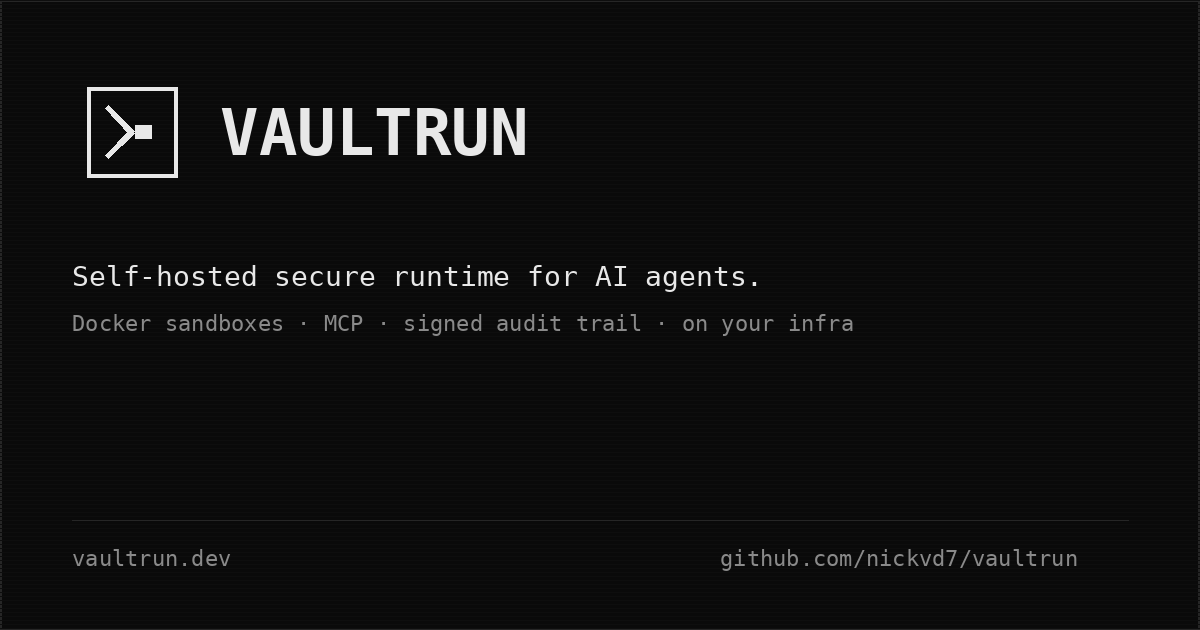
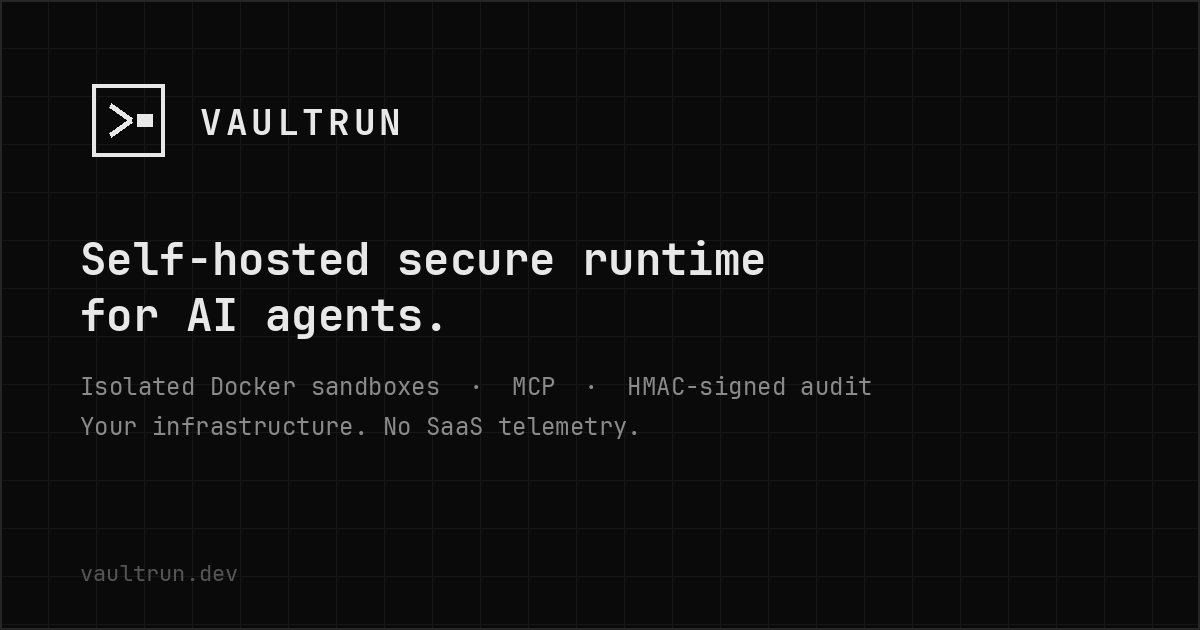
docs: LinkedIn company page kit and refresh marketing plan
Add paste-ready Page copy, settings, and first post; generate LinkedIn
logo/cover/post rasters (and the missing OG/social PNGs) from brand geometry.
Update the July plan for v0.3.x, local-first positioning, and Page-first launch.

diff --git a/site/brand/README.md b/site/brand/README.md
@@ -24,13 +24,25 @@ Terminal prompt inside a square frame: `>_`
 | `lockup-light.svg` / `lockup-light.png` | Mark + VAULTRUN (light) |
 | `wordmark.svg` / `wordmark-light.svg` | Text only |
 
-## Social / video
+## Social / video / LinkedIn
 
 | File | Size | Use |
 |------|------|-----|
 | `og.png` | 1200×630 | Open Graph / LinkedIn / X link preview |
 | `social-square.png` | 1080×1080 | Profile / square posts |
 | `video-endcard.png` | 1920×1080 | Demo video end card |
+| `linkedin-logo.png` | 400×400 | Company Page logo |
+| `linkedin-cover.png` | 4200×700 | Company Page cover (upload size) |
+| `linkedin-profile-banner.png` | 1584×396 | Founder personal-profile banner |
+| `linkedin-first-post.png` | 1080×1080 | Attach to the Page launch post |
+
+Page copy and settings: [`docs/linkedin-page.md`](../../docs/linkedin-page.md).
+
+Regenerate all rasters (requires Pillow + JetBrains Mono or DejaVu Sans Mono):
+
+```bash
+python3 scripts/generate-brand-pngs.py
+```
 
 ## Rules (short)
 
